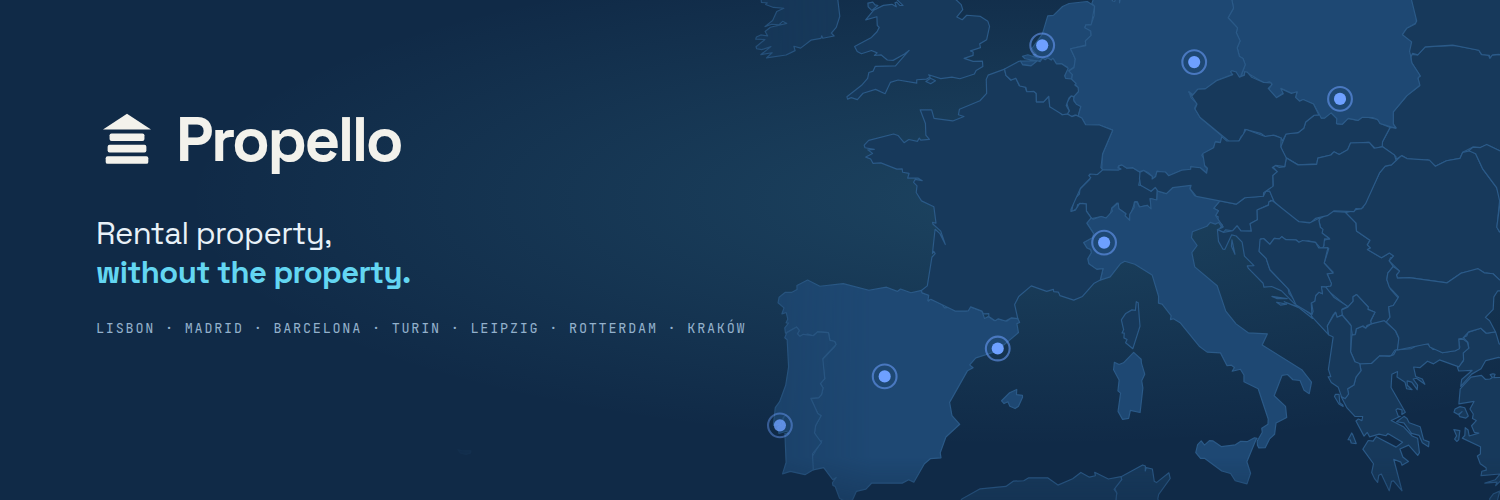
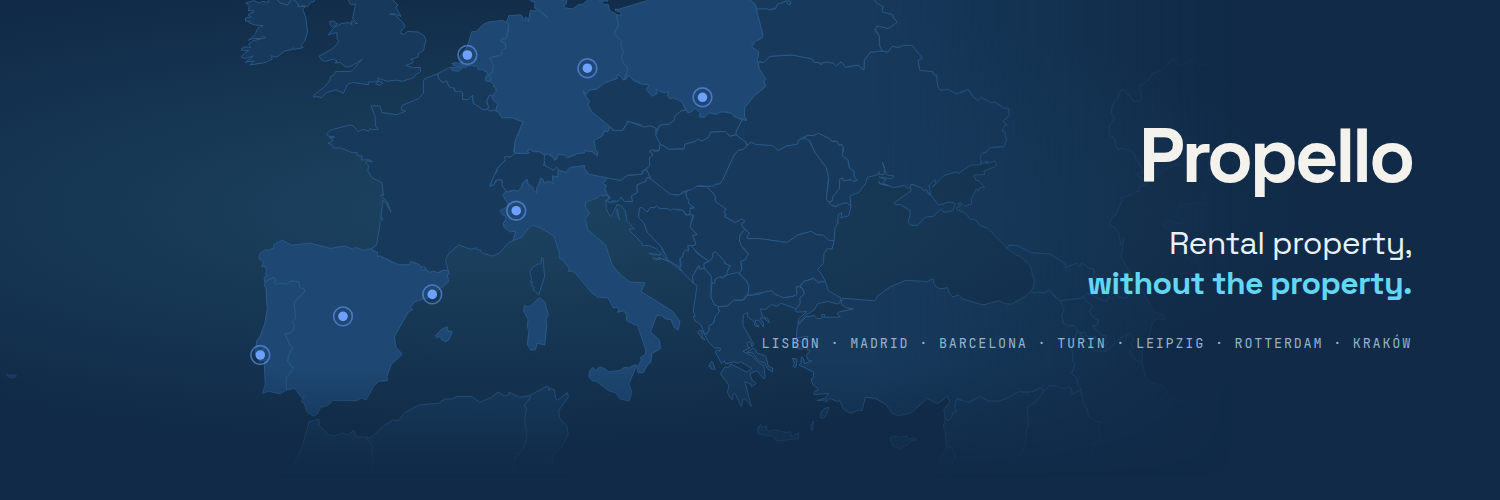
Europe on the left, the name on the right, and Phantom only once
The header drops the mark and moves the type to the right third, with the
map reframed so its southernmost pin stays clear of the circle X lays over
the bottom-left corner.

Phantom announces itself on both rails, so the picker offered it twice, once
for Base and once for Solana. A wallet that can do both is now offered once,
on the chain the share actually lives on; a Solana-only wallet still gets its
own row. 158 checks pass.

Claude-Session: https://claude.ai/code/session_01CNC6KDPSiuj6NyGCZspRwE

diff --git a/propello-site/scripts/header.html b/propello-site/scripts/header.html
@@ -1,10 +1,10 @@
 <!doctype html>
-<!-- The X header: the map on the right, the name on the left. Rendered to
+<!-- The X header: Europe on the left, the name on the right. Rendered to
      brand/header.png by scripts/header.js.
 
-     X puts the avatar over the bottom-left corner and crops the top and
-     bottom on phones, so everything that matters lives in the upper band and
-     nothing sits below y=320 on the left third. -->
+     X lays the avatar over the bottom-left corner, so the map is framed with
+     its southernmost pin (Lisbon) clear of that circle, and the type sits in
+     the right third where nothing covers it. -->
 <html lang="en"><head><meta charset="utf-8">
 <link rel="stylesheet" href="../styles.css">
 <style>
@@ -12,7 +12,7 @@
   .hd {
     position: relative; width: 1500px; height: 500px; overflow: hidden;
     background:
-      radial-gradient(ellipse at 68% 40%, rgba(99,214,242,.15), transparent 58%),
+      radial-gradient(ellipse at 32% 42%, rgba(99,214,242,.15), transparent 58%),
       #102A47;
     font-family: "Space Grotesk", sans-serif; color: #F3F2EC;
   }
@@ -20,25 +20,23 @@
   /* Europe, framed on the eight cities and faded into the ground */
   /* the site's stylesheet clamps images to their container; here the map is
      deliberately wider than the banner, so opt out or the pins drift off it */
-  .map { position: absolute; left: 378px; top: -360px; width: 1900px; height: 950px; max-width: none; }
-  .pins { position: absolute; left: 378px; top: -360px; width: 1900px; height: 950px; max-width: none; }
+  .map { position: absolute; left: -57px; top: -265px; width: 1500px; height: 750px; max-width: none; }
+  .pins { position: absolute; left: -57px; top: -265px; width: 1500px; height: 750px; max-width: none; }
   .map, .pins {
-    -webkit-mask-image: linear-gradient(to right, transparent 2%, #000 26%, #000 88%, transparent 100%),
-                        linear-gradient(to bottom, transparent 1%, #000 12%, #000 86%, transparent 99%);
+    -webkit-mask-image: linear-gradient(to right, transparent 0%, #000 10%, #000 62%, transparent 86%),
+                        linear-gradient(to bottom, transparent 1%, #000 14%, #000 84%, transparent 99%);
     -webkit-mask-composite: source-in; mask-composite: intersect;
   }
   .dot { fill: #6EA0FF; }
   .ring { fill: none; stroke: rgba(110,160,255,.55); stroke-width: 1.6; }
 
-  /* the name, clear of the avatar's corner */
-  .left { position: absolute; left: 96px; top: 92px; width: 720px; }
-  .brand { display: flex; align-items: center; gap: 18px; }
-  .brand svg { width: 62px; height: 62px; color: #F3F2EC; }
-  .brand span { font-size: 62px; font-weight: 700; letter-spacing: -.04em; }
-  .tag { margin: 26px 0 0; font-size: 31px; line-height: 1.25; letter-spacing: -.02em; color: #E8F1F8; }
+  /* the name, in the right third, away from the avatar and the phone crop */
+  .right { position: absolute; right: 88px; top: 118px; text-align: right; }
+  .name { font-size: 76px; font-weight: 700; letter-spacing: -.045em; line-height: 1; }
+  .tag { margin: 30px 0 0; font-size: 32px; line-height: 1.24; letter-spacing: -.02em; color: #E8F1F8; }
   .tag b { color: #63D6F2; font-weight: 700; }
   .cities {
-    margin: 26px 0 0; font-family: "JetBrains Mono", monospace; font-size: 13.5px;
+    margin: 30px 0 0; font-family: "JetBrains Mono", monospace; font-size: 13.5px;
     letter-spacing: .13em; color: #93B1CC; text-transform: uppercase; white-space: nowrap;
   }
 </style></head>
@@ -46,11 +44,8 @@
   <img class="map" src="../map.svg" alt="">
   <svg class="pins" viewBox="0 0 1440 720"></svg>
 
-  <div class="left">
-    <div class="brand">
-      <svg viewBox="0 0 32 32" fill="currentColor"><path d="M16 2.4 28.4 10.6H3.6z"/><rect x="7" y="12.6" width="18" height="3.9" rx="1"/><rect x="6" y="18.5" width="20" height="3.9" rx="1"/><rect x="5" y="24.4" width="22" height="3.9" rx="1"/></svg>
-      <span>Propello</span>
-    </div>
+  <div class="right">
+    <div class="name">Propello</div>
     <p class="tag">Rental property,<br><b>without the property.</b></p>
     <p class="cities">Lisbon · Madrid · Barcelona · Turin · Leipzig · Rotterdam · Kraków</p>
   </div>

diff --git a/propello-site/wallet.js b/propello-site/wallet.js
@@ -108,7 +108,17 @@
     if (window.solana && !ph) add(window.solana, window.solana.isPhantom ? 'Phantom' : 'Solana wallet', 'solana.injected');
     return out;
   }
-  function all() { return known().concat(solanaKnown()); }
+  /* Phantom answers on both rails, so it would otherwise be offered twice.
+     The share is an ERC-4626 token on Base, so when a wallet can do both, the
+     Ethereum side is the one worth offering; a Solana-only wallet still gets
+     its own row. */
+  function all() {
+    var evm = known();
+    var brand = function (p) { return String(p.info.name).toLowerCase().replace(/[^a-z]/g, ''); };
+    var seen = {};
+    evm.forEach(function (p) { seen[brand(p)] = 1; });
+    return evm.concat(solanaKnown().filter(function (p) { return !seen[brand(p)]; }));
+  }
 
   /* ---------------------------------------------------- abi helpers ------ */
   var pad = function (hex) { return hex.replace(/^0x/, '').padStart(64, '0'); };
